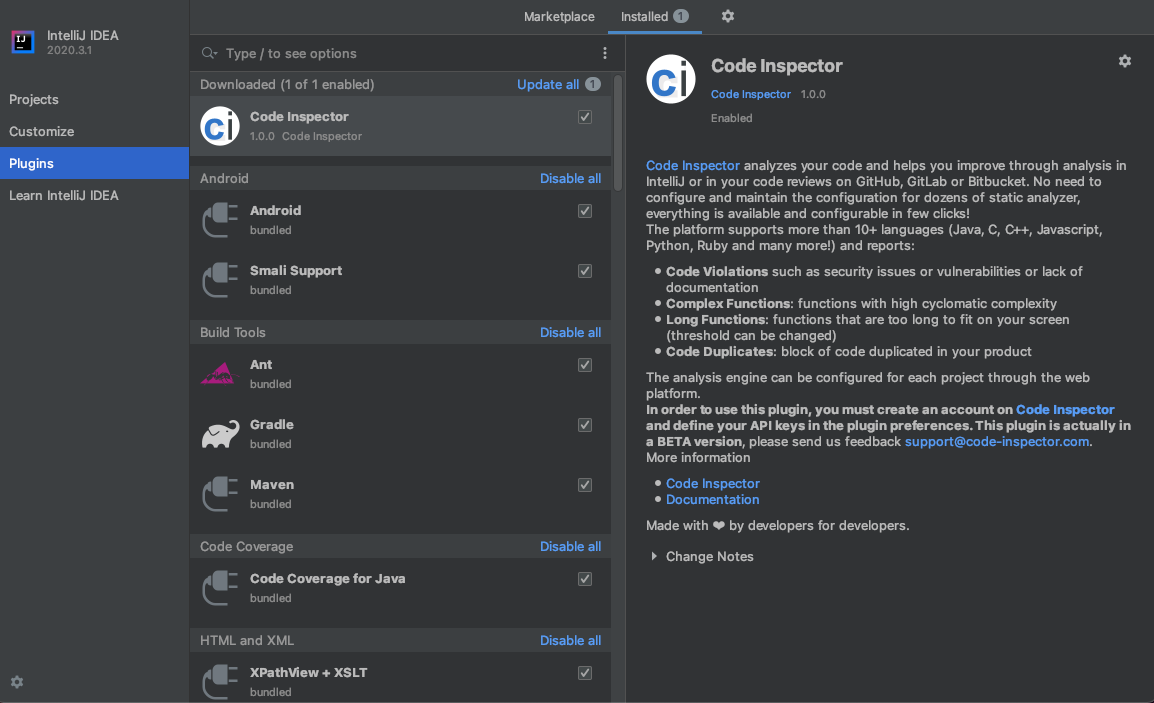
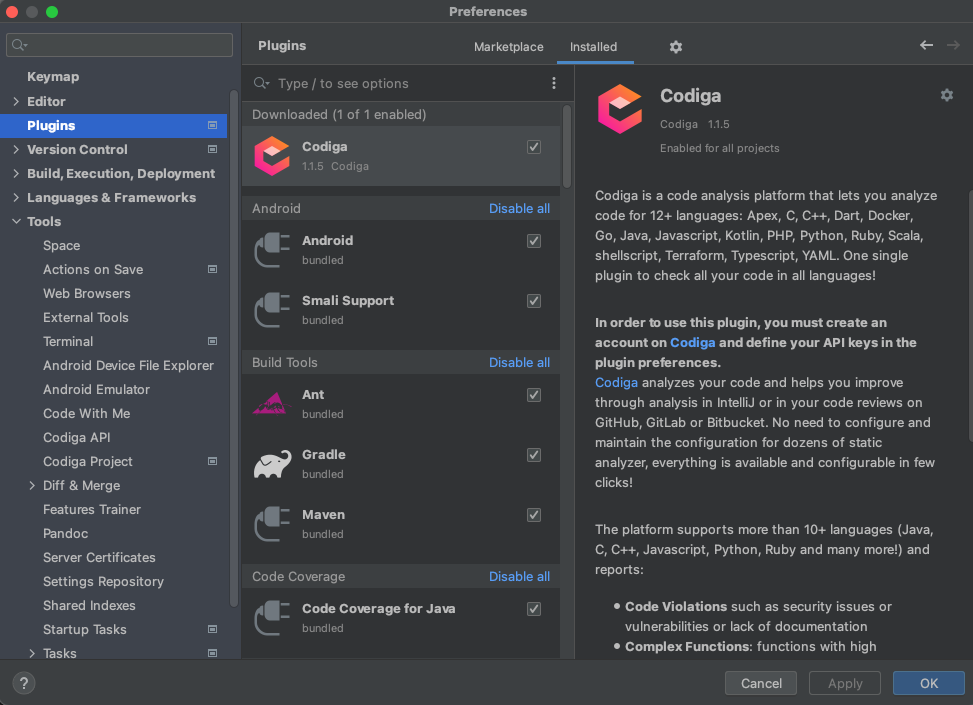
Add Codiga assets

diff --git a/src/main/java/io/codiga/plugins/jetbrains/completion/CodigaCompletionProvider.java b/src/main/java/io/codiga/plugins/jetbrains/completion/CodigaCompletionProvider.java
@@ -1,0 +1,27 @@
+package io.codiga.plugins.jetbrains.completion;
+
+import com.intellij.codeInsight.completion.CompletionParameters;
+import com.intellij.codeInsight.completion.CompletionProvider;
+import com.intellij.codeInsight.completion.CompletionResultSet;
+import com.intellij.codeInsight.lookup.LookupElementBuilder;
+import com.intellij.openapi.diagnostic.Logger;
+import com.intellij.util.ProcessingContext;
+import org.jetbrains.annotations.NotNull;
+
+import static io.codiga.plugins.jetbrains.Constants.LOGGER_NAME;
+
+public class CodigaCompletionProvider extends CompletionProvider<CompletionParameters> {
+    public static final Logger LOGGER = Logger.getInstance(LOGGER_NAME);
+
+    CodigaCompletionProvider() {
+    }
+
+    @Override
+    protected void addCompletions(@NotNull CompletionParameters parameters,
+                                  @NotNull ProcessingContext context,
+                                  @NotNull CompletionResultSet result) {
+        LOGGER.debug("Triggering completion");
+
+        result.addElement(LookupElementBuilder.create("CLADAMOUSSE"));
+    }
+}

diff --git a/src/main/java/io/codiga/plugins/jetbrains/completion/CodigaCompletion.java b/src/main/java/io/codiga/plugins/jetbrains/completion/CodigaCompletion.java
@@ -1,0 +1,16 @@
+package io.codiga.plugins.jetbrains.completion;
+
+import com.intellij.codeInsight.completion.CompletionContributor;
+import com.intellij.openapi.diagnostic.Logger;
+
+import static com.intellij.patterns.PlatformPatterns.psiElement;
+import static io.codiga.plugins.jetbrains.Constants.LOGGER_NAME;
+
+public class CodigaCompletion extends CompletionContributor {
+    public static final Logger LOGGER = Logger.getInstance(LOGGER_NAME);
+    public CodigaCompletion() {
+        extend(null,
+            psiElement(),
+            new CodigaCompletionProvider());
+    }
+}

diff --git a/src/main/java/io/codiga/plugins/jetbrains/settings/project/ProjectSettingsComponent.java b/src/main/java/io/codiga/plugins/jetbrains/settings/project/ProjectSettingsComponent.java
@@ -151,6 +151,11 @@ public class ProjectSettingsComponent {
                 .getPanel();
         } else {
             projectSelectionPanel = FormBuilder.createFormBuilder()
+
+                .addLabeledComponent(new JBLabel(SETTINGS_PROJECT_ENABLE), this.isEnabledCheckbox, 0, false)
+                .addVerticalGap(5)
+                .addSeparator(1)
+                .addVerticalGap(5)
                 .addComponent(new JBLabel(SETTINGS_API_NOT_WORKING), 1)
                 .addComponentFillVertically(new JPanel(), 1)
                 .getPanel();

diff --git a/src/main/java/io/codiga/plugins/jetbrains/ui/UIConstants.java b/src/main/java/io/codiga/plugins/jetbrains/ui/UIConstants.java
@@ -17,7 +17,7 @@ public class UIConstants {
     public final static String API_STATUS_TEXT_FAIL =
             "Connection Failed. Check your access/secret keys and make sure you Apply changes before testing";
     public final static String SETTINGS_API_NOT_WORKING =
-        "API is not configured correctly. Check your access and secret keys";
+        "API is not configured correctly. Check your access and secret keys to enable project-specific parameters.";
 
     public final static String ANNOTATION_PREFIX = "Codiga";
 

diff --git a/src/main/java/io/codiga/plugins/jetbrains/graphql/Constants.java b/src/main/java/io/codiga/plugins/jetbrains/graphql/Constants.java
@@ -4,7 +4,7 @@ package io.codiga.plugins.jetbrains.graphql;
  * All constants used to access the GraphQL API
  */
 public final class Constants {
-    public static final String ENDPOINT_URL = "https://api.code-inspector.com/graphql";
+    public static final String ENDPOINT_URL = "https://api.codiga.io/graphql";
     public static final String ACCESS_KEY_HEADER = "X-Access-Key";
     public static final String SECRET_KEY_HEADER = "X-Secret-Key";
     public static final String API_TOKEN_HEADER = "X-Api-Token";

diff --git a/README.md b/README.md
@@ -1,53 +1,78 @@
-[![Code Quality Score](https://www.code-inspector.com/project/20239/score/svg)](https://frontend.code-inspector.com/public/project/20239/intellij-plugin/dashboard)
-[![Code Status](https://www.code-inspector.com/project/20239/status/svg)](https://frontend.code-inspector.com/public/project/20239/intellij-plugin/dashboard)
+# Codiga Plugin for Jetbrains products
 
-# Code Inspector Plugin for Jetbrains products
+This is the source code for the Jetbrains plugin for Codiga.
 
-This is the source code for the Jetbrains plugin for Code Inspector.
+Codiga provides two main functionalities:
 
-It is available on the [Jetbrains marketplace](https://plugins.jetbrains.com/plugin/16341-code-inspector) 
+ - **Coding Assistant**: import reusable code blocks based on your context
+ - **Code Analysis**: no-configuration code analysis for 12+ languages
+
+It is available on the [Jetbrains marketplace](https://plugins.jetbrains.com/plugin/17969-codiga) 
 and you can install it directly within any Jetbrains product (IntelliJ, PHPStorm, PYCharm, etc).
 
-You can watch a [short description of the plugin](https://www.youtube.com/watch?v=ecGhMpynHXQ).
 
 
 ## Quick Start
 
-![Code Inspector IntelliJ plugin](src/main/resources/imgs/plugin-description.png "Code Inspector PlugIn")
+Go in the plugin section of your Jetbrains product and look for "Codiga" on the marketplace.
 
-You need to have an account on [Code Inspector](https://www.code-inspector.com) and have your project
-inspected by Code Inspector. Once done, get your API keys on Code Inspector on 
-[your profile page](https://frontend.code-inspector.com/account/profile). 
+![Codiga Jetbrains plugin](src/main/resources/imgs/plugin-description.png "Codiga PlugIn")
 
 
-![API keys configuration](src/main/resources/imgs/api-keys.png)
+### Use the Coding Assistant
 
-Once the API keys are validated, you associate your Code Inspector project with your IntelliJ project as shown
-below.
+![Coding Assistant](src/main/resources/imgs/coding-assistant.gif "Coding Assistant in Action")
 
-![Project Configuration](src/main/resources/imgs/project-preferences.png)
+You can trigger the coding assistant by either
 
-Code Inspector will annotate your source code and surface all issues it detects. You can select to learn more
+ - Use the shortcut control + alt + C
+ - Use the menu item as shown below
+
+
+![Coding Assistant Menu](src/main/resources/imgs/codiga-assistant-menu.png "Coding Assistant Menu")
+
+
+### Creating and sharing reusable code blocks
+
+![Create Recipe](src/main/resources/imgs/create-recipe.gif "Creating Recipe")
+
+ 1. Select the code in your editor
+ 2. Right click on "Create Codiga Recipe"
+
+
+
+### Code Analysis
+
+Codiga analyses your code and surfaces any issue. It works for 12+ languages. Codiga annotates directly You can select to learn more
 about each violation, see them on Code Inspector or just ignore it.
 
 ![Action Available](src/main/resources/imgs/actions-available.png)
 
+You can select to disable the code analysis directly in the project preference, as shown below.
 
-## Features
+![Disable Code Analysis](src/main/resources/imgs/disable-code-analysis.gif)
 
- * Surface Code Inspector Issues in IntelliJ
- * Ability to ignore violations directly within IntelliJ
- * Direct link between Code Inspector and the IntelliJ editor
+## Connecting your Codiga Account
 
-## Architecture
+You can connect your Codiga account in order to 
 
-There are two stores for the preferences of this plugin
+ 1. use the code recipes and cookbooks you define and subscribe to
+ 2. use all your code analysis preferences on Codiga
 
- * **Application-level**: preferences for the application to store and get the access and secret keys
- * **Project-level**: preferences that stores what project is being used.
+In order to link your Codiga account, you need to add your API token to your preferences.
+First, go on our application and generate an API token as shown below.
 
-Then, once the project is selected, annotations for each file on Code Inspector
-are being surfaced within the IDE.
+![API Token Creation](src/main/resources/imgs/api-token-creation.gif)
+
+
+Then, enter your API token in the Jetbrains plugin configuration, as shown below.
+
+![Project Configuration](src/main/resources/imgs/api-token.png)
+
+Once the token is added, click on "Apply" and then "Test API connection".
+
+
+# Implementation concerns
 
 ## Dependencies
 
@@ -60,4 +85,4 @@ This project is under the GPL-3. See the LICENSE file for more information.
 
 ## Contact
 
-If you have any bugreport: support@code-inspector.com
+If you have any bugreport, submit an issue directly on the [GitHub issue tracker](https://github.com/codiga/jetbrains-plugin/issues).
